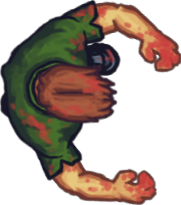
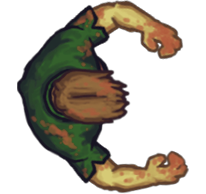
optimizations 😍
cut zombie frames in half, adjusted bullet spawn offset, image loading optimizations.

diff --git a/level.py b/level.py
@@ -1,6 +1,7 @@
 import pygame as pg
 from player import Player, Bullet
 from enemies import Zombie
+from support import import_folder
 from settings import *
 
 
@@ -8,27 +9,37 @@ class Level:
     def __init__(self, display):
         self.display = display
 
+        # one-time image imports
+        self.bg_image = pg.transform.scale(pg.image.load("assets/background/grass.png").convert(), (1600, 900))
+        self.bullet_image = pg.image.load("assets/bullet.png").convert_alpha()
+        self.zombie_image_list = import_folder("assets/zombie", 0.5)
+
         self.player = Player(display, WIDTH / 2, HEIGHT / 2)
 
         self.bullet_group = pg.sprite.Group()
         self.zombie_group = pg.sprite.Group()
 
         self.bullet_delay = 0
+        self.can_shoot = True
 
         self.ZOMBIE_SPAWN = pg.USEREVENT + 1
-        pg.time.set_timer(self.ZOMBIE_SPAWN, 750)
+        pg.time.set_timer(self.ZOMBIE_SPAWN, 100)
 
     def shooting(self, m_input, m_pos):
-        if m_input[0]:
+        if self.can_shoot:
+            if m_input[0]:
+                Bullet(self.display, self.bullet_group, m_pos, self.player.pos.copy(), self.bullet_image)
+                self.can_shoot = False
+        else:
             self.bullet_delay += 1
-            if self.bullet_delay >= 15:
-                Bullet(self.display, self.bullet_group, m_pos, self.player.pos.copy())
+            if self.bullet_delay >= 1:
                 self.bullet_delay = 0
+                self.can_shoot = True
 
     def enemy_spawn(self, events):
         for ev in events:
             if ev.type == self.ZOMBIE_SPAWN:
-                Zombie(self.display, self.zombie_group)
+                Zombie(self.display, self.zombie_group, self.zombie_image_list)
 
     def kill_collision(self):
         for blt in self.bullet_group:
@@ -44,6 +55,7 @@ class Level:
         self.enemy_spawn(events)
         self.kill_collision()
 
+        self.display.blit(self.bg_image, (0, 0))
         for blt in self.bullet_group:
             blt.update()
         for zmb in self.zombie_group:

diff --git a/player.py b/player.py
@@ -64,7 +64,7 @@ class Player:
 
 
 class Bullet(pg.sprite.Sprite):
-    def __init__(self, display, group, m_pos, player_pos):
+    def __init__(self, display, group, m_pos, player_pos, image):
         super().__init__(group)
         self.display = display
         self.surf = None
@@ -75,17 +75,17 @@ class Bullet(pg.sprite.Sprite):
         self.y_vel = None
         self.pos = player_pos
         self.speed = 20
-        self.rotation(m_pos)
+        self.rotation(m_pos, image)
         self.direction(m_pos)
         self.offset_local()
 
-    def rotation(self, m_pos):
+    def rotation(self, m_pos, image):
         adj = m_pos[0] - self.pos[0]
         opp = m_pos[1] - self.pos[1]
         rad = atan2(adj, opp)
         deg = rad * (180 / pi) + 180
 
-        self.surf = pg.transform.rotate(pg.image.load("assets/bullet.png").convert_alpha(), deg)
+        self.surf = pg.transform.rotate(image, deg)
         self.mask = pg.mask.from_surface(self.surf)
         self.rect = self.surf.get_rect(center=self.pos)
 
@@ -95,7 +95,7 @@ class Bullet(pg.sprite.Sprite):
         self.y_vel = sin(degrees) * self.speed
 
     def offset_local(self):
-        offset = pg.Vector2(15, 0)
+        offset = pg.Vector2(15, -50)
         local_x_vec = pg.Vector2(self.y_vel, -self.x_vel).normalize()
         local_y_vec = pg.Vector2(self.x_vel, self.y_vel).normalize()
 

diff --git a/main.py b/main.py
@@ -16,21 +16,17 @@ class Game:
         while run:
             events = pg.event.get()
             for ev in events:
-                if ev.type == pg.QUIT:
+                if ev.type == pg.QUIT or (ev.type == pg.KEYDOWN and ev.key == pg.K_ESCAPE):
                     run = False
-                if ev.type == pg.KEYDOWN:
-                    if ev.key == pg.K_ESCAPE:
-                        run = False
 
             keys = pg.key.get_pressed()
             m_pos = pg.mouse.get_pos()
             m_input = pg.mouse.get_pressed()
 
-            self.screen.fill("darkgreen")
             self.level.update(keys, m_pos, m_input, events)
 
             pg.display.flip()
-            self.clock.tick(60)
+            self.clock.tick(FPS)
 
 
 if __name__ == "__main__":

diff --git a/enemies.py b/enemies.py
@@ -6,11 +6,11 @@ from settings import *
 
 
 class Zombie(pg.sprite.Sprite):
-    def __init__(self, display, group):
+    def __init__(self, display, group, surf_list):
         super().__init__(group)
         self.display = display
         
-        self.surf_list = import_folder("assets/zombie", 0.5)
+        self.surf_list = surf_list
         self.surf = None
         self.rect = None
         self.mask = None
@@ -29,7 +29,7 @@ class Zombie(pg.sprite.Sprite):
 
         self.speed = 5
         self.current_frame = 0
-        self.anim_speed = 0.3
+        self.anim_speed = 0.2
 
     def zombie_anim(self):
         frames = self.surf_list

diff --git a/settings.py b/settings.py
@@ -1,1 +1,2 @@
 WIDTH, HEIGHT = 1600, 900
+FPS = 60
